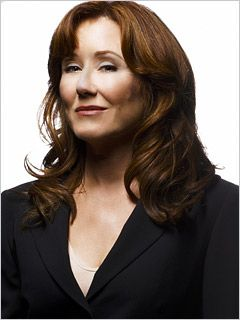
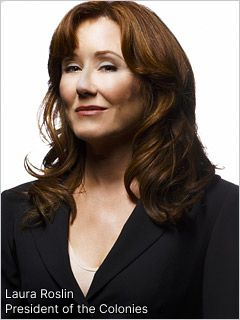
'deploy'

Changed region(s): [[0.0, 0.9062, 0.6125, 1.0]]

diff --git a/pages/index.tsx b/pages/index.tsx
@@ -6,6 +6,8 @@ import { NextPage } from 'next';
 import Main from '../components/Main';
 import Footer from '../components/Footer';
 import LauraRoslinImage from '../components/images/lauraRoslin';
+import NavBar from '../components/NavBar';
+
 
 const Home: NextPage = () => {
   return (
@@ -16,11 +18,7 @@ const Home: NextPage = () => {
         <link rel="icon" href="/favicon.ico" />
       </Head>
       <nav className={styles.nav}>
-        <ul>
-          <li>Civilians</li>
-          <li>Government Personnel</li>
-          <li>Military Personnel</li>
-        </ul>
+        <NavBar />
       </nav>
 
       <header className={styles.header} >

diff --git a/components/images/lauraRoslin/LauraRoslin.tsx b/components/images/lauraRoslin/LauraRoslin.tsx
@@ -1,5 +1,5 @@
 import Image from 'next/image';
-import LauraRoslin from '../lauraRoslin/LauraRoslin.png';
+import LauraRoslin from '../lauraRoslin/LauraRoslin.jpg';
 
 export default function LauraRoslinImage() {
     return (
@@ -8,7 +8,6 @@ export default function LauraRoslinImage() {
             src = {LauraRoslin}
             alt = 'Laura Roslin, President fo the Twelve Colonies of Kobol'
             />
-            <p>President Laura Roslin</p>
         </>
     )
 }

diff --git a/styles/Home.module.css b/styles/Home.module.css
@@ -13,6 +13,20 @@
   padding: 0;
   display: flex;
   flex-direction: column;
+  color: azure;
+  background: #000000;
+}
+
+.nav ul {
+  display: flex;
+  list-style: none;
+  align-items: center;
+  justify-content: center;
+}
+
+.nav ul li {
+  padding: 0 5%;
+  text-transform: uppercase;
 }
 
 .header {
@@ -108,6 +122,7 @@
   max-width: 300px;
 }
 
+.nav ul li:hover,
 .card:hover,
 .card:focus,
 .card:active {

diff --git a/components/NavBar/NavBar.tsx b/components/NavBar/NavBar.tsx
@@ -1,0 +1,13 @@
+import React from 'react'
+
+export default function NavBar() {
+  return (
+    <div>
+        <ul>
+          <li><a href='/civiliansLoginPage'>Civilians</a></li>
+          <li><a href='/governmentLoginPage'>Government Personnel</a></li>
+          <li><a href='/militaryLoginPage'>Military Personnel</a></li>
+        </ul>
+    </div>
+  )
+}

diff --git a/components/Header/Header.tsx b/components/Header/Header.tsx
@@ -7,7 +7,6 @@ import LauraRoslinImage from '../images/lauraRoslin/LauraRoslin';
 export default function Header() {
   return (
     <>
- 
         <h1 className={styles.title}>
           <Colonies />
           Colonial Government

diff --git a/components/NavBar/index.tsx b/components/NavBar/index.tsx
@@ -1,0 +1,2 @@
+import NavBar from "./NavBar";
+export default NavBar;
